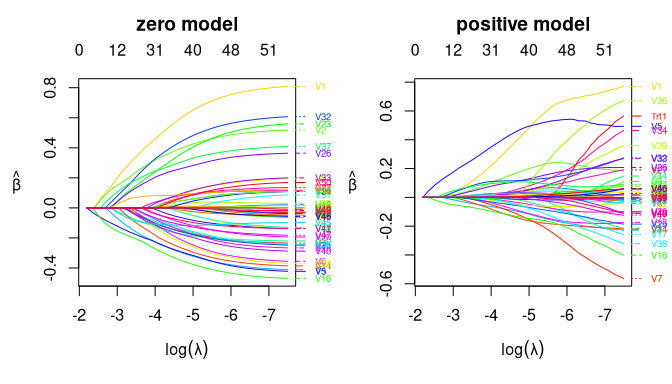
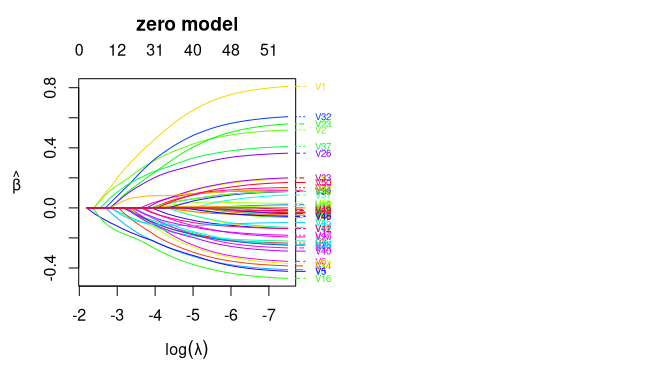
man update

diff --git a/README.md b/README.md
@@ -140,10 +140,15 @@ We can plot the coefficient curves for the two models as the following:
 ``` r
 par(mfrow = c(1,2))
 plot(fitted_2part_subgrp_model$model$hd2part.fit, "zero")
-plot(fitted_2part_subgrp_model$model$hd2part.fit, "positive")
 ```
 
 <img src="man/figures/README-unnamed-chunk-2-1.png" width="100%" />
+
+``` r
+plot(fitted_2part_subgrp_model$model$hd2part.fit, "positive")
+```
+
+<img src="man/figures/README-unnamed-chunk-2-2.png" width="100%" />
 
 Now evaluate value function on test set based on the estimated
 individualized treatment rule and compare with average outcome (a value
